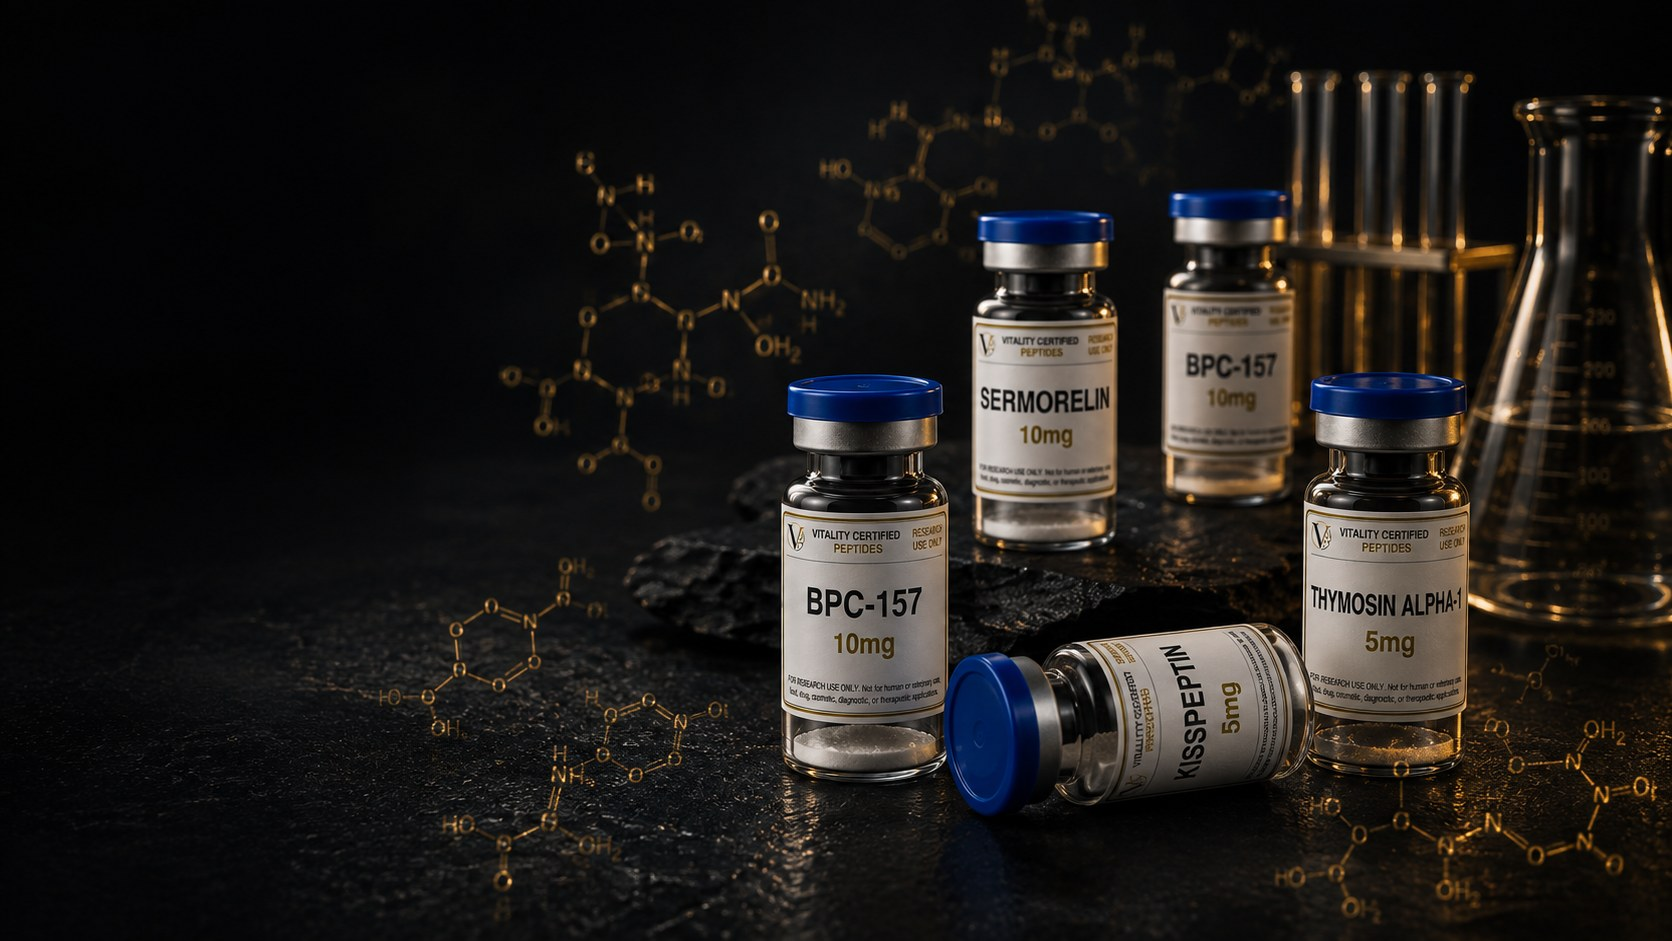
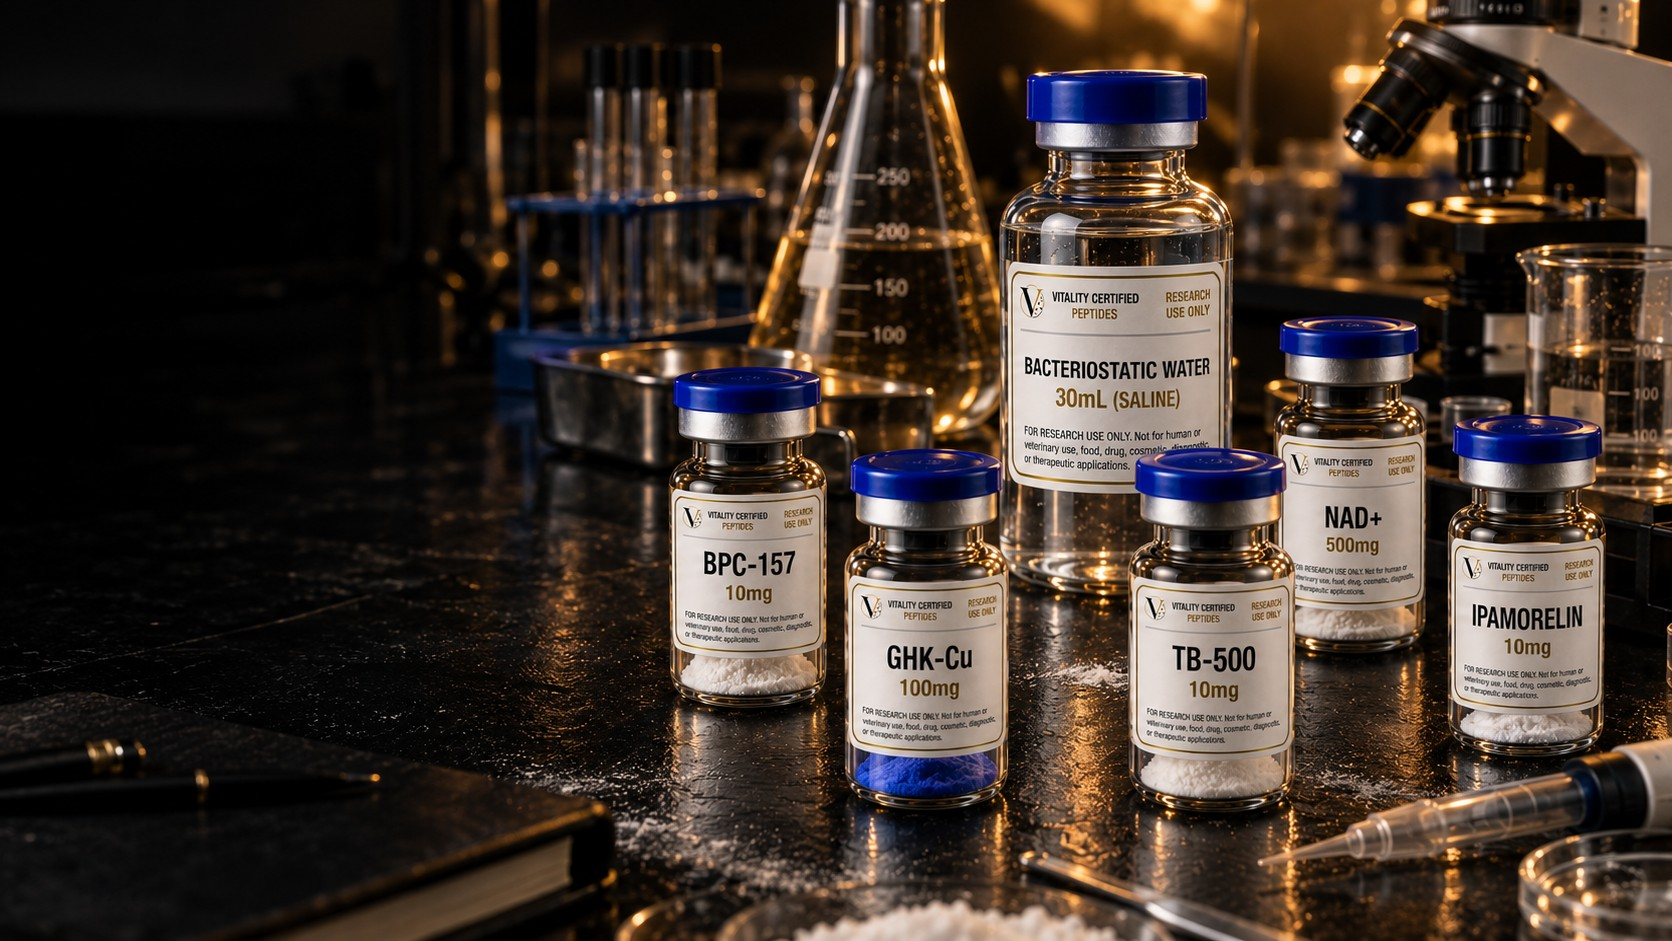
Homepage: new lab-bench hero photos, ticker removed, full-width mobile search
- hero-desktop.jpg / hero-mobile.jpg replaced with the ChatGPT lab-bench
  renders (BPC-157, GHK-Cu, TB-500, NAD+, Ipamorelin; no retail-removed
  products in frame)
- mobile hero is taller, anchored to the bottom of the photo, with a heavy
  top fade so the headline reads over the equipment
- shipping ticker above the header removed (Josh: looks cheap)
- below sm, the header's second row is now a full-width search field with
  Shop Catalog beside it; HeaderSearch gains a `full` prop

Claude-Session: https://claude.ai/code/session_01PQzJrvecdeZB93AErPU1iv

diff --git a/src/components/SiteHeader.tsx b/src/components/SiteHeader.tsx
@@ -97,13 +97,9 @@ export default async function SiteHeader() {
 
   return (
     <header className="sticky top-0 z-40">
-      <div className="bg-ink text-center py-2 px-4">
-        <p className="label-eyebrow text-[0.66rem] tracking-[0.16em] text-gold">
-          Most orders ship within 1-3 business days
-          <span className="text-cream/40 mx-2">&#8226;</span>
-          Free US shipping over $250
-        </p>
-      </div>
+      {/* 2026-09-06 (Josh): the shipping ticker that used to sit above
+          this bar is gone for good ("makes us look cheap"). Free-shipping
+          threshold still shows in the homepage benefit strip and cart. */}
       <div className="bg-cream/95 backdrop-blur supports-[backdrop-filter]:bg-cream/80 border-b border-line">
         <div className="max-w-7xl mx-auto px-4 py-3.5 flex items-center justify-between gap-4">
           {/* 2026-08-29 (Josh): search moved next to the wordmark so it's
@@ -117,7 +113,11 @@ export default async function SiteHeader() {
               Catalog row further down still covers narrow screens. */}
           <div className="flex items-center gap-3 md:gap-5 min-w-0">
             <Wordmark />
-            <HeaderSearch products={searchIndex} />
+            {/* Compact inline search from sm up; below sm the full-width
+                row further down carries search instead. */}
+            <div className="hidden sm:block">
+              <HeaderSearch products={searchIndex} />
+            </div>
             <Link
               href="/shop"
               className="hidden sm:inline-flex items-center rounded-full bg-ink text-cream px-5 py-2.5 label-eyebrow text-[0.68rem] hover:bg-gold-deep transition-colors whitespace-nowrap shrink-0"
@@ -179,10 +179,14 @@ export default async function SiteHeader() {
             Shop Catalog button is already visible from sm up, so this
             row only needs to exist below sm - it used to render empty
             padding on tablet widths. */}
-        <div className="sm:hidden max-w-6xl mx-auto px-4 pb-3">
+        {/* 2026-09-06 (Josh): on phones the second row is a full-width
+            search field with Shop Catalog beside it. People arrive
+            knowing the compound name; give them somewhere to type it. */}
+        <div className="sm:hidden max-w-6xl mx-auto px-4 pb-3 flex items-center gap-2">
+          <HeaderSearch products={searchIndex} full />
           <Link
             href="/shop"
-            className="inline-flex items-center rounded-full bg-ink text-cream px-5 py-2 label-eyebrow text-[0.68rem] hover:bg-gold-deep transition-colors"
+            className="inline-flex items-center rounded-full bg-ink text-cream px-4 py-2.5 label-eyebrow text-[0.66rem] hover:bg-gold-deep transition-colors whitespace-nowrap shrink-0"
           >
             Shop Catalog
           </Link>

diff --git a/src/app/page.tsx b/src/app/page.tsx
@@ -97,11 +97,18 @@ export default async function HomePage() {
 
   return (
     <div>
-      {/* Full-bleed hero with separate desktop and mobile photography. */}
+      {/* Full-bleed hero with separate desktop and mobile photography.
+          2026-09-06 (Josh): both photos replaced with the ChatGPT lab-bench
+          renders (originals in Documents/Peptides/hero-candidates). Desktop
+          keeps its vials in the right half, so the left-side copy sits on
+          empty slate. The mobile shot is busy top to bottom (microscope
+          up top, vials below), so the mobile hero is taller, anchored to
+          the bottom of the photo, and the top carries a heavy fade so the
+          headline reads over the equipment. */}
       <section className="relative bg-black text-cream overflow-hidden border-b border-line">
         <Image
           src="/hero-desktop.jpg"
-          alt="Vitality Certified Peptides vials"
+          alt="Vitality Certified Peptides vials on a lab bench"
           fill
           sizes="100vw"
           className="object-cover object-right hidden sm:block"
@@ -109,10 +116,10 @@ export default async function HomePage() {
         />
         <Image
           src="/hero-mobile.jpg"
-          alt="Vitality Certified Peptides vials"
+          alt="Vitality Certified Peptides vials on a lab bench"
           fill
           sizes="100vw"
-          className="object-cover object-center sm:hidden"
+          className="object-cover object-bottom sm:hidden"
           priority
         />
         <div
@@ -120,10 +127,10 @@ export default async function HomePage() {
           aria-hidden
         />
         <div
-          className="absolute inset-0 sm:hidden bg-gradient-to-b from-black/85 via-black/40 to-transparent"
+          className="absolute inset-0 sm:hidden bg-[linear-gradient(to_bottom,rgba(0,0,0,0.94)_0%,rgba(0,0,0,0.82)_32%,rgba(0,0,0,0.35)_55%,rgba(0,0,0,0)_75%)]"
           aria-hidden
         />
-        <div className="relative max-w-6xl mx-auto px-4 py-16 sm:py-24 md:py-32">
+        <div className="relative max-w-6xl mx-auto px-4 pt-12 pb-72 sm:py-24 md:py-32 min-h-[36rem] sm:min-h-0">
           <h1 className="text-[1.7rem] sm:text-3xl md:text-[2.6rem] leading-[1.3] md:leading-[1.25] font-semibold tracking-tight max-w-xl">
             Third-Party Tested
             <br />

diff --git a/src/components/HeaderSearch.tsx b/src/components/HeaderSearch.tsx
@@ -21,10 +21,14 @@ export type HeaderSearchProduct = {
   image: string | null;
 };
 
+// full = the mobile header row (2026-09-06, Josh): the field stretches to
+// the row's full width instead of the compact pill used inline on desktop.
 export default function HeaderSearch({
   products,
+  full = false,
 }: {
   products: HeaderSearchProduct[];
+  full?: boolean;
 }) {
   const router = useRouter();
   const [query, setQuery] = useState("");
@@ -64,7 +68,7 @@ export default function HeaderSearch({
   }
 
   return (
-    <div ref={containerRef} className="relative">
+    <div ref={containerRef} className={full ? "relative flex-1 min-w-0" : "relative"}>
       <form
         onSubmit={(e) => {
           e.preventDefault();
@@ -92,13 +96,17 @@ export default function HeaderSearch({
             }}
             placeholder="Search products..."
             aria-label="Search products"
-            className="w-28 sm:w-36 md:w-52 lg:w-64 rounded-full border border-line bg-white pl-9 pr-3 py-2 text-sm text-ink placeholder:text-ink-soft/50 focus:outline-none focus:border-gold-deep transition-[width] duration-150 focus:w-44 sm:focus:w-56 md:focus:w-64 lg:focus:w-72"
+            className={
+              full
+                ? "w-full rounded-full border border-line bg-white pl-9 pr-3 py-2.5 text-sm text-ink placeholder:text-ink-soft/50 focus:outline-none focus:border-gold-deep"
+                : "w-28 sm:w-36 md:w-52 lg:w-64 rounded-full border border-line bg-white pl-9 pr-3 py-2 text-sm text-ink placeholder:text-ink-soft/50 focus:outline-none focus:border-gold-deep transition-[width] duration-150 focus:w-44 sm:focus:w-56 md:focus:w-64 lg:focus:w-72"
+            }
           />
         </div>
       </form>
 
       {open && query.trim() && (
-        <div className="absolute right-0 top-full mt-2 w-72 sm:w-80 bg-white border border-line shadow-[0_12px_32px_-16px_rgba(21,19,15,0.35)] z-50 max-h-96 overflow-y-auto">
+        <div className={`absolute top-full mt-2 bg-white ${full ? "left-0 right-0" : "right-0 w-72 sm:w-80"} border border-line shadow-[0_12px_32px_-16px_rgba(21,19,15,0.35)] z-50 max-h-96 overflow-y-auto`}>
           {results.length > 0 ? (
             <>
               <ul>
